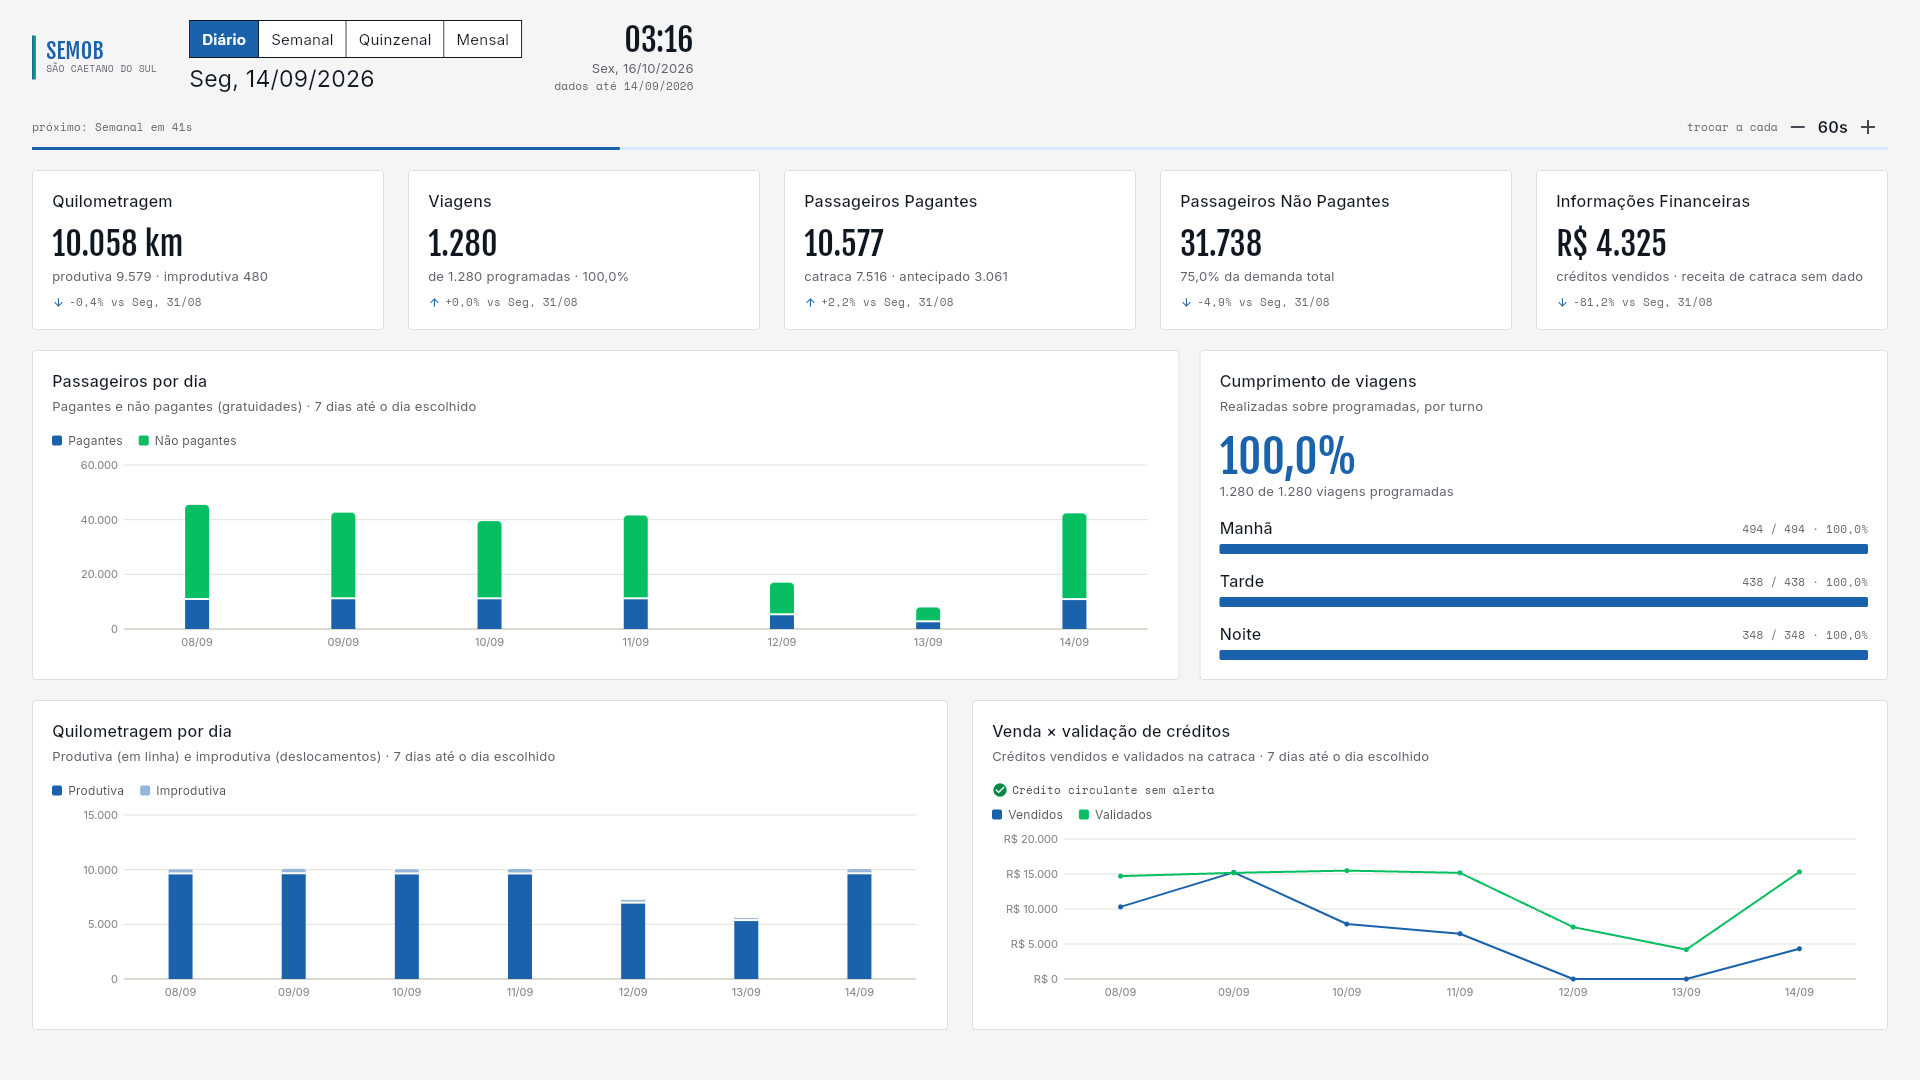
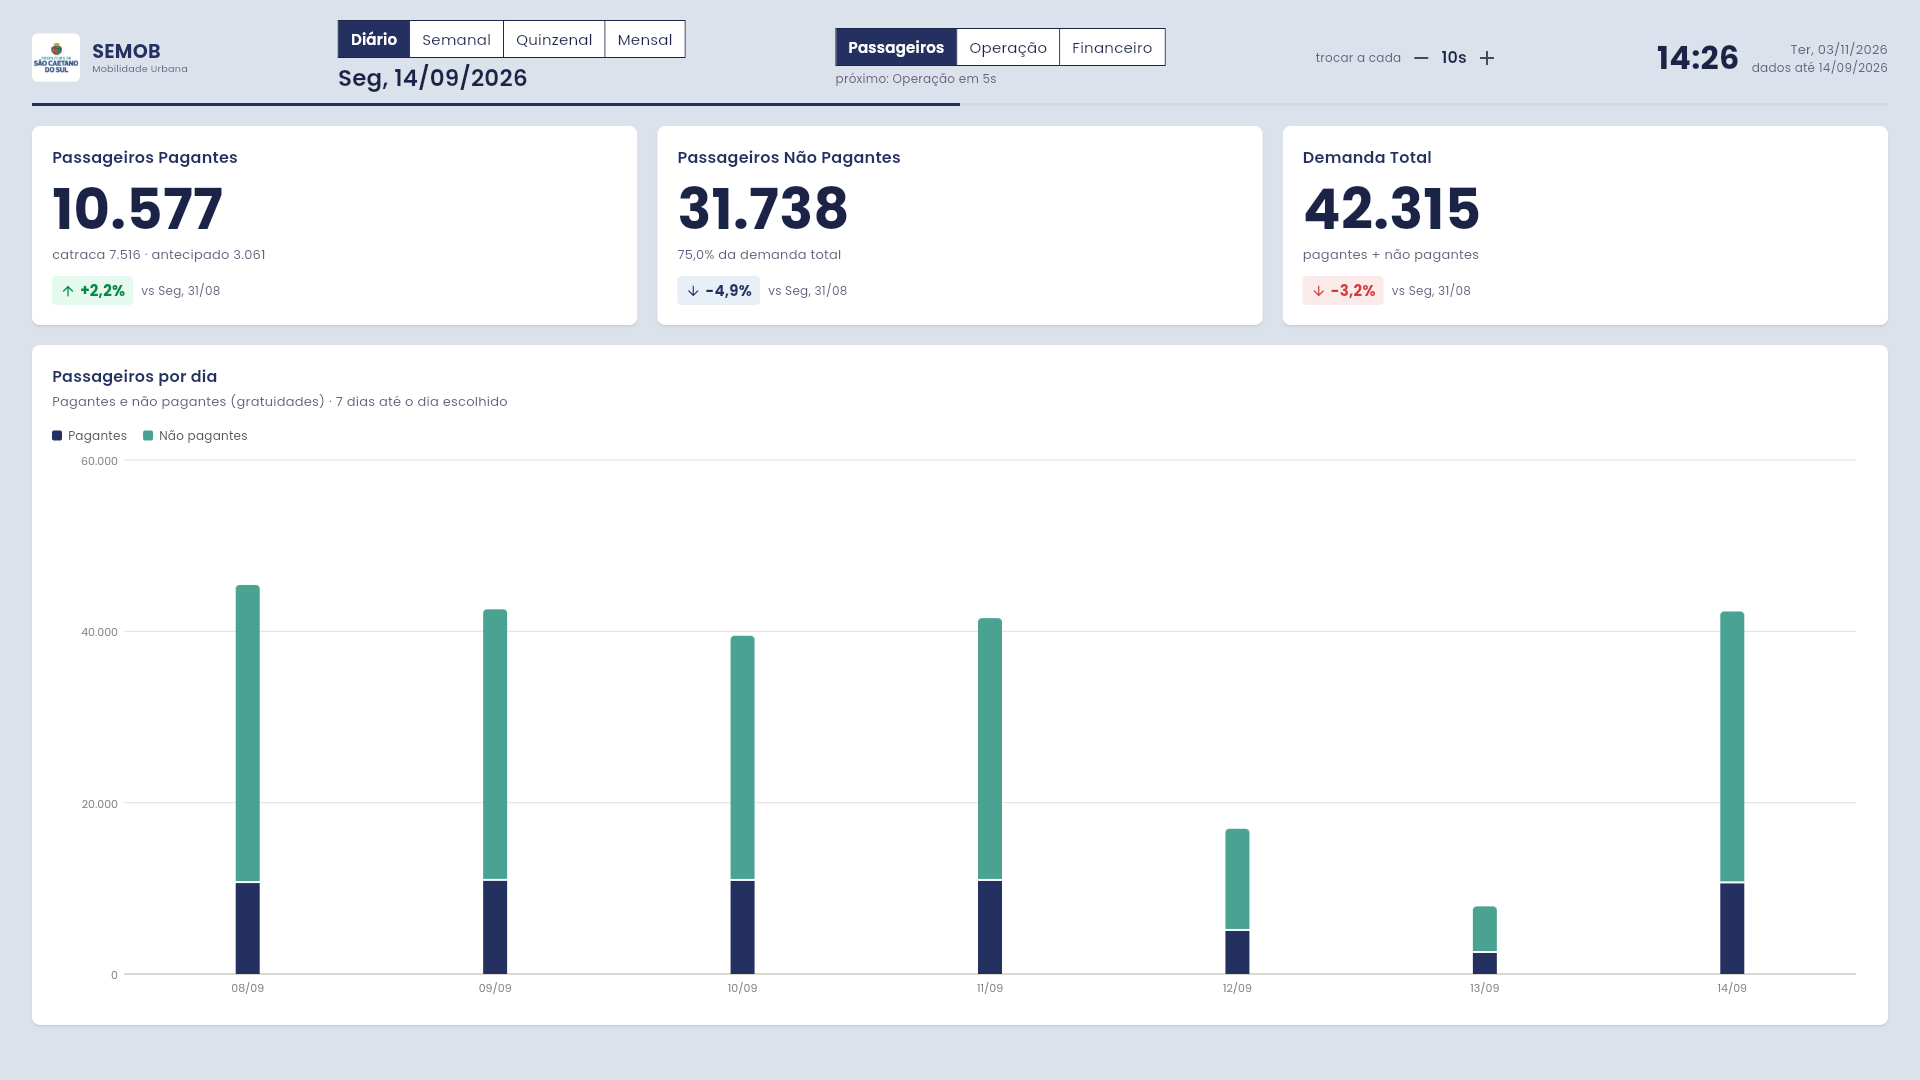
fotos atualizadas

diff --git a/README.md b/README.md
@@ -5,8 +5,10 @@ estáticos recebidos por e-mail.
 
 O dashboard foi feito para ficar aberto no **computador da SEMOB, ligado 24 horas** a uma tela grande, com o navegador em tela cheia: não tem botões. Ele mostra quilometragem,
 viagens, passageiros pagantes, passageiros não pagantes e informações financeiras, com gráficos e
-comparação com o período anterior, e troca sozinho entre **diário, semanal, quinzenal e mensal** a cada
-1 minuto.
+comparação com o período anterior. As informações são divididas em três telas por assunto
+(**Passageiros, Operação e Financeiro**), que trocam sozinhas a cada 20 segundos; depois das três, o painel
+passa para o próximo período (**diário, semanal, quinzenal e mensal**), então cada período fica 1 minuto
+na tela. As cores, a fonte (Poppins) e o brasão seguem o site da Prefeitura de São Caetano do Sul.
 
 Um único endereço serve tudo: o backend (Node.js) entrega a API e o painel (Flutter Web). Os dados ficam
 no MongoDB Atlas e vêm dos relatórios do **Smart Report**.
@@ -71,13 +73,21 @@ endereço do sistema.
 
 ![Tela de login](docs/imagens/login.png)
 
-**Painel, visão diária** (o dia é comparado com o mesmo dia da semana anterior)
+**Painel, visão diária: Passageiros** (o dia é comparado com o mesmo dia da semana anterior; alta em verde, queda em vermelho)
 
-![Painel na visão diária](docs/imagens/painel-diario.png)
+![Painel na visão diária, tela Passageiros](docs/imagens/painel-diario.png)
 
-**Painel, visão mensal**
+**Painel, visão diária: Operação**
 
-![Painel na visão mensal](docs/imagens/painel-mensal.png)
+![Painel na visão diária, tela Operação](docs/imagens/painel-operacao.png)
+
+**Painel, visão diária: Financeiro**
+
+![Painel na visão diária, tela Financeiro](docs/imagens/painel-financeiro.png)
+
+**Painel, visão mensal: Passageiros**
+
+![Painel na visão mensal, tela Passageiros](docs/imagens/painel-mensal.png)
 
 **Painel no celular**
 
